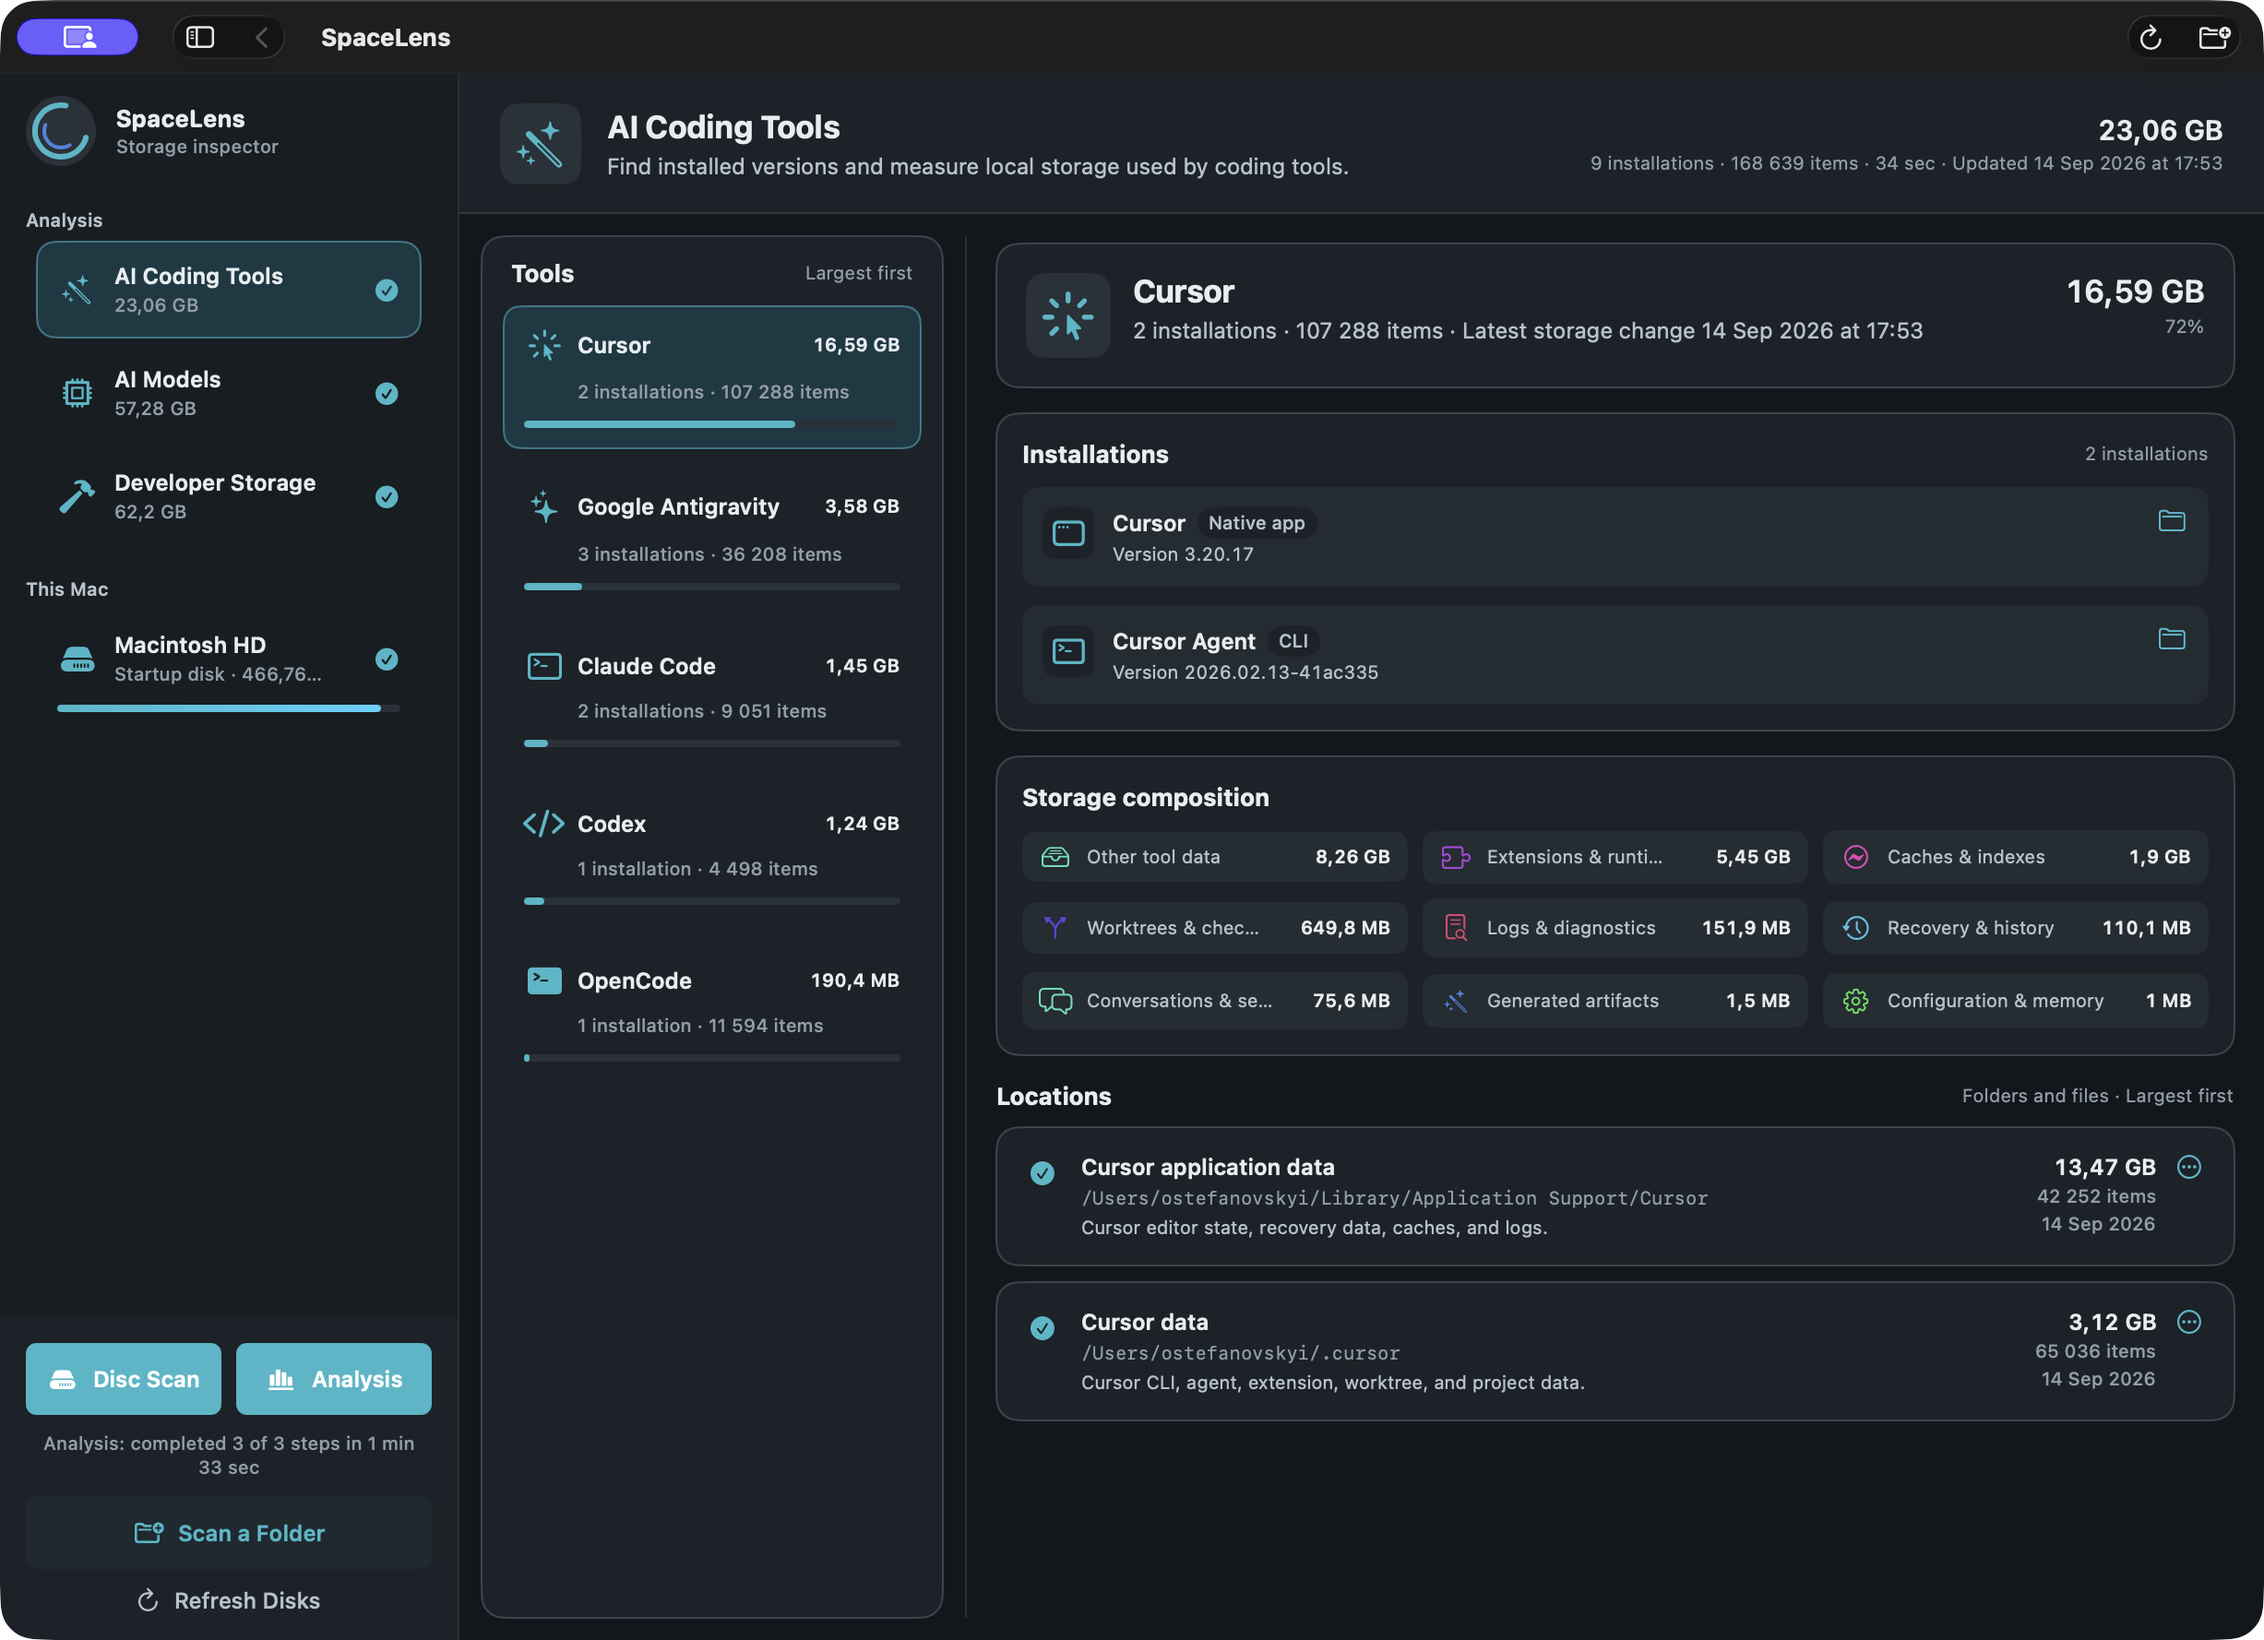
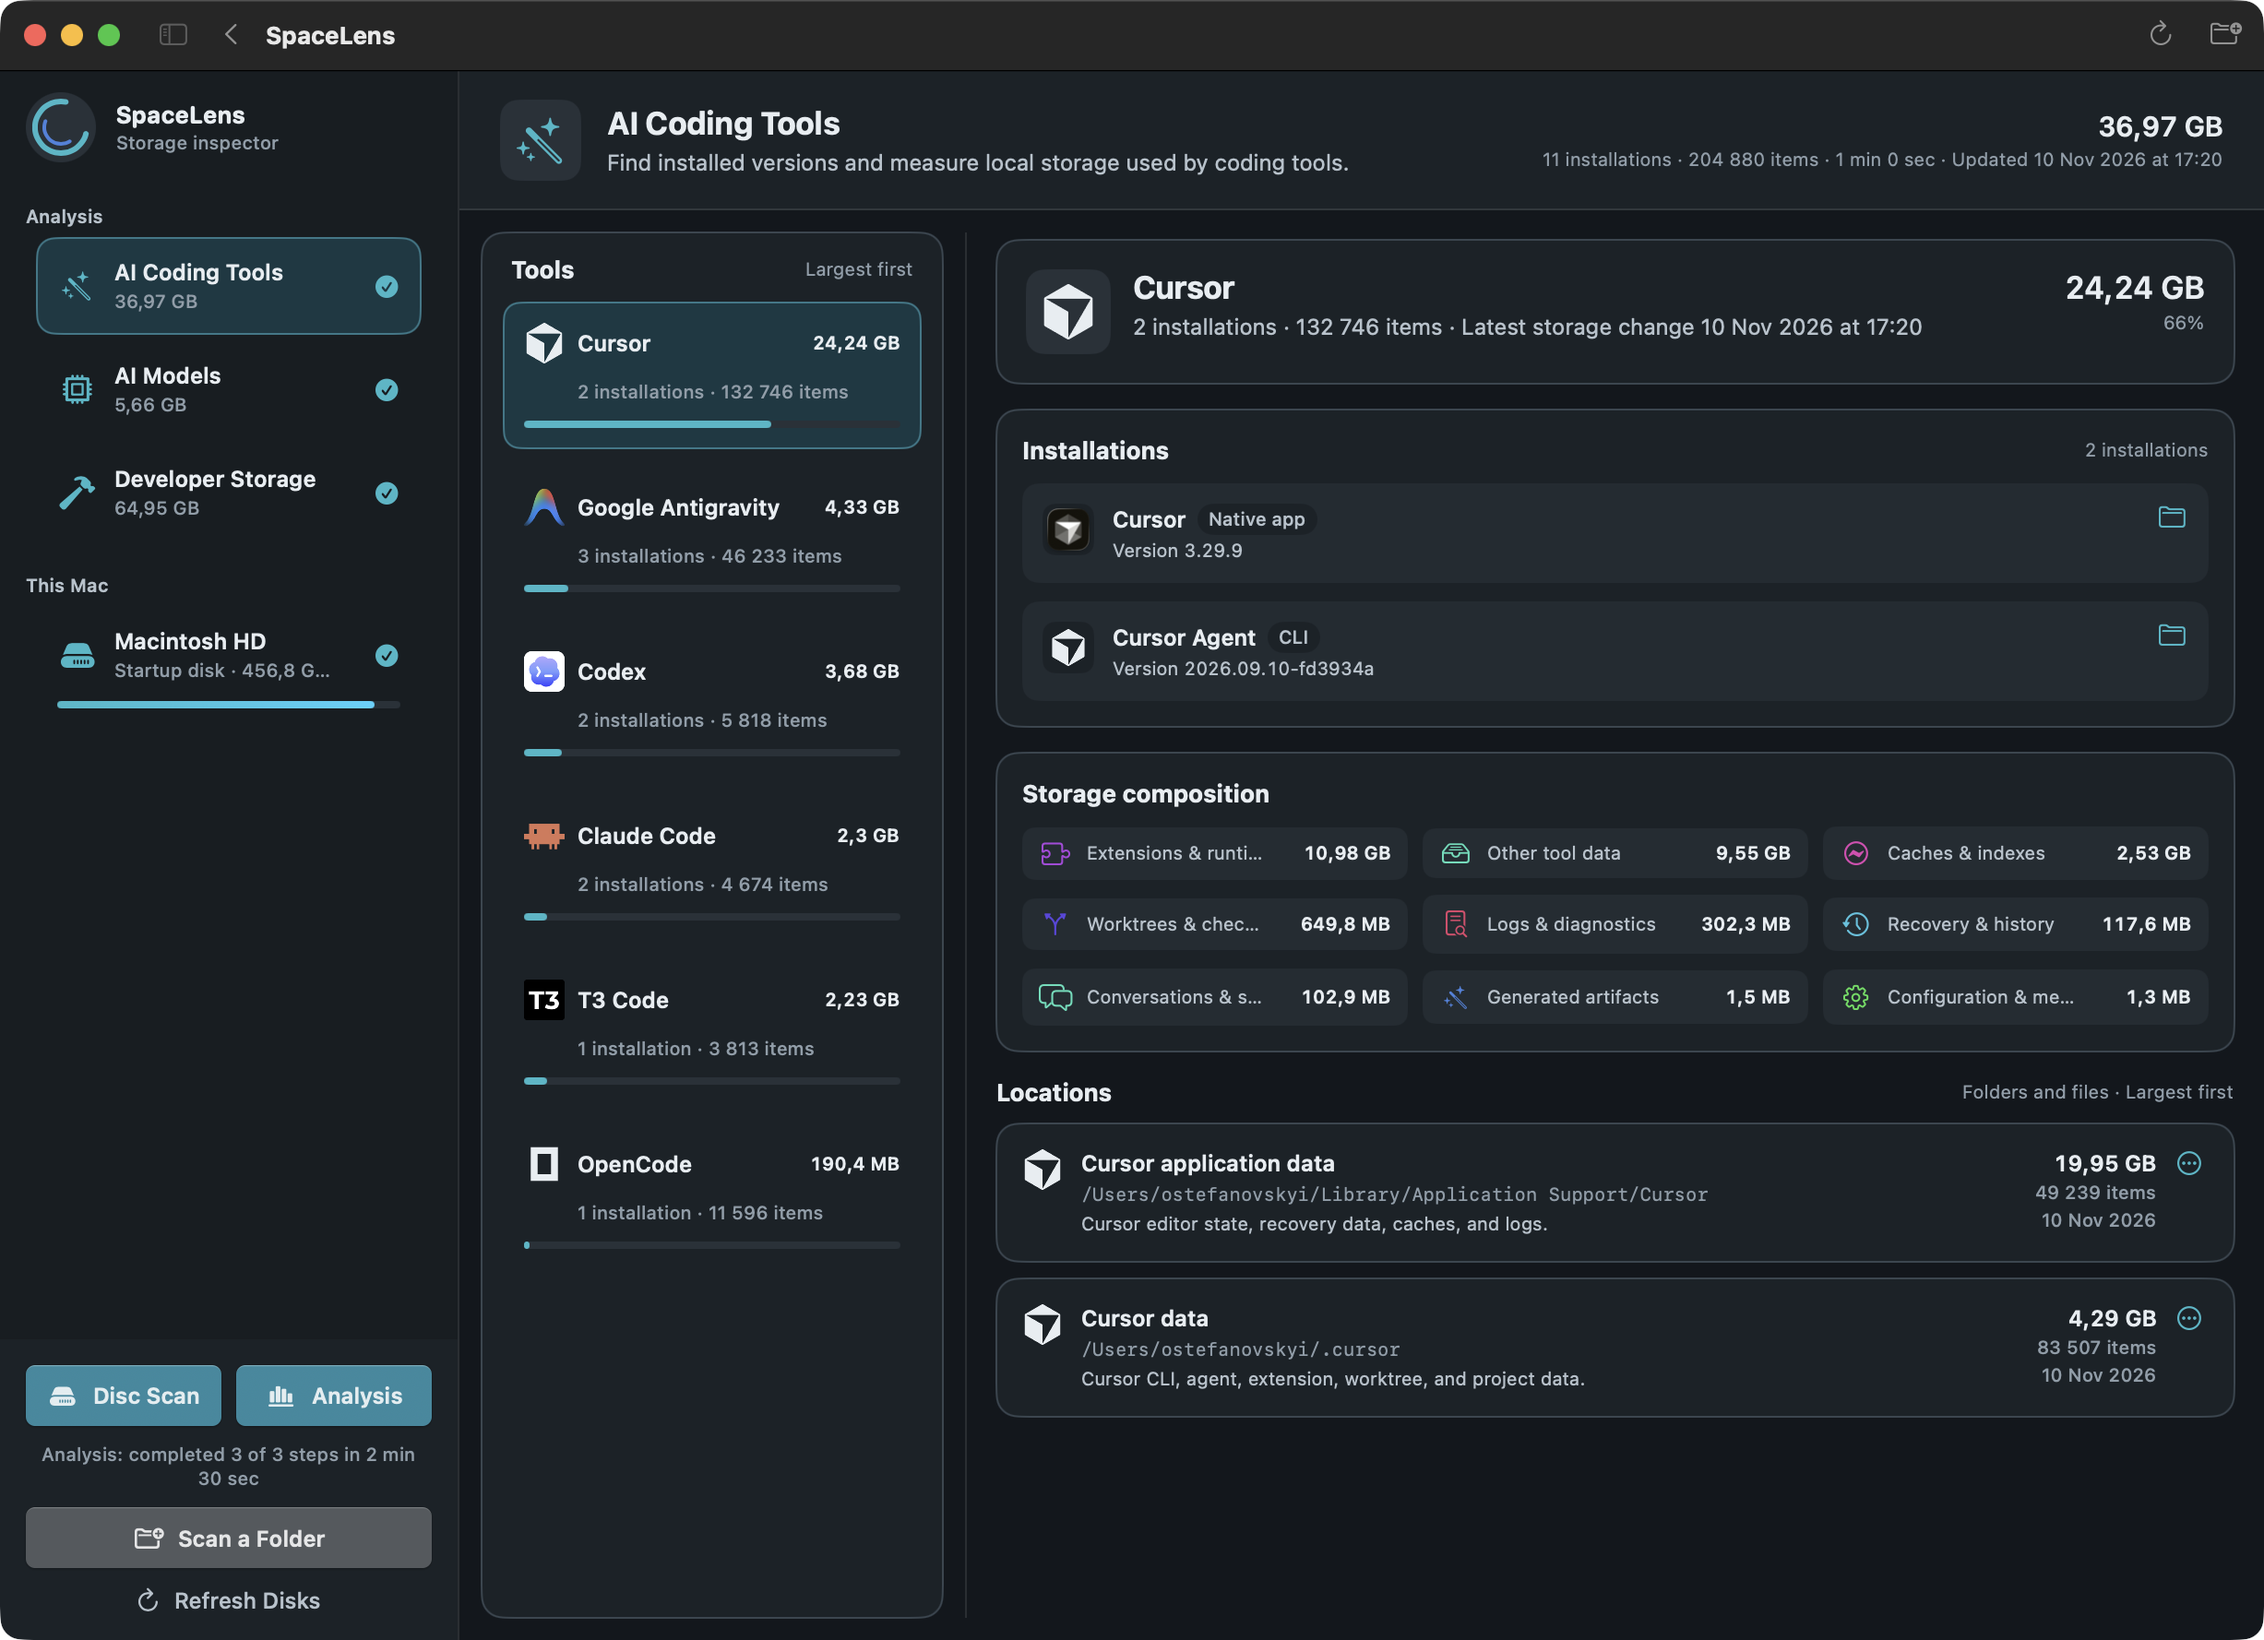
Prepare SpaceLens 1.5.0 release
Bump the version to 1.5.0 (build 6) and refresh the README storage-map
and AI Coding Tools screenshots with captures from the Holo Pulse build.

diff --git a/README.md b/README.md
@@ -65,7 +65,7 @@ This exception does not make the app signed or notarized. Do not disable Gatekee
   <a href="docs/images/spacelens-ai-models.png"><img src="docs/images/spacelens-ai-models.png" width="49%" alt="Completed AI Models analysis in SpaceLens"></a>
 </p>
 
-These are unedited captures of completed results from the earlier app build, before Holo Pulse was added. Totals naturally depend on the Mac being inspected.
+These are unedited captures of completed results. The storage map and AI Coding Tools captures are from SpaceLens 1.5.0; the AI Models capture is from an earlier build. Totals naturally depend on the Mac being inspected.
 
 ## Run locally
 
